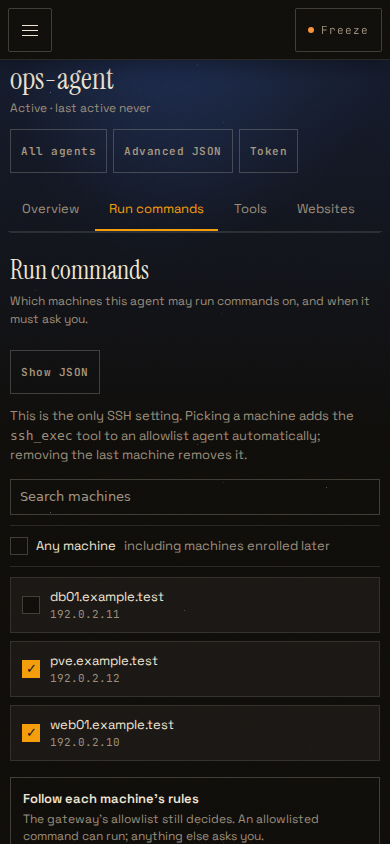
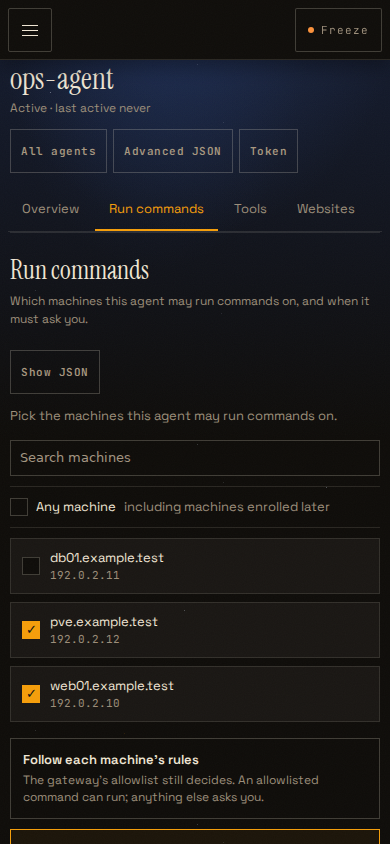
fix(x11): load E2E commands by path; plain Run commands copy; no template badge

Changed region(s): [[0.0, 0.4621, 0.9846, 1.0]]

diff --git a/dashboard/static/x11.js b/dashboard/static/x11.js
@@ -616,26 +616,6 @@
     renderAgents();
   }
 
-  function agentTemplateKey(entry) {
-    var id = String(entry.agent.id);
-    try {
-      var map = JSON.parse(window.localStorage.getItem('eshu.x11.agentTemplates') || '{}');
-      if (map[id]) return map[id];
-    } catch (e) { /* private mode */ }
-    var p = entry.agent.policy || {};
-    if (p.test_agent) return 'test';
-    var hosts = ((entry.config || {}).ssh || {}).hosts || [];
-    var tools = ((entry.config || {}).tools || {}).allow || [];
-    var perms = ((entry.config || {}).home_assistant || {}).permissions || [];
-    if (hosts.length) return 'ops';
-    if (tools.length || perms.length) return 'household';
-    return 'empty';
-  }
-  function agentType(entry) {
-    var key = agentTemplateKey(entry);
-    return ({ household: 'Household', ops: 'Ops', test: 'Test agent',
-      observer: 'Observer' })[key] || 'Custom';
-  }
   function pendingForAgent(name) {
     var n = 0;
     (S.pendingRequests || []).forEach(function (r) {
@@ -739,7 +719,7 @@
     return '<a class="x11-agent-card" href="#agent/' + Number(a.id) + '/overview" data-agent-card ' +
       'data-agent-id="' + Number(a.id) + '" aria-label="Open ' + attr(a.name) + '">' +
       '<div class="x11-agent-card-head"><span class="x11-agent-name">' + esc(a.name) + '</span>' +
-      '<span class="x11-agent-status"><span class="badge">' + esc(agentType(entry)) + '</span> ' +
+      '<span class="x11-agent-status">' +
       '<span class="badge' + (a.revoked ? ' badge-denied' : '') + '">' + esc(status) + '</span></span></div>' +
       '<p class="x11-agent-last">' + (last
         ? 'Last: ' + esc(last.text) + ' \u00b7 ' + esc(ago(last.ts))
@@ -3191,8 +3171,7 @@
         m[0] + '\')"><span class="x11-mode-name">' + esc(m[1]) +
         '</span><span class="x11-mode-note">' + esc(m[2]) + '</span></button>';
     }).join('');
-    return '<p class="x11-int-sentence">This is the only SSH setting. Picking a machine adds the ' +
-      '<code>ssh_exec</code> tool to an allowlist agent automatically; removing the last machine removes it.</p>' +
+    return '<p class="x11-int-sentence">Pick the machines this agent may run commands on.</p>' +
       '<div class="x11-machine-tools"><input id="x11-machine-search" type="search" placeholder="Search machines" ' +
       'aria-label="Search machines" value="' + attr(S.machineSearch) + '" oninput="x11MachineSearch(this.value)"></div>' +
       '<label class="x11-any-machine"><input type="checkbox" data-ssh-any' +
@@ -3853,14 +3832,6 @@
       home_assistant: { permissions: [] },
     };
   }
-  function saveTemplateMark(id, key) {
-    try {
-      var raw = window.localStorage.getItem('eshu.x11.agentTemplates') || '{}';
-      var map = JSON.parse(raw);
-      map[String(id)] = key;
-      window.localStorage.setItem('eshu.x11.agentTemplates', JSON.stringify(map));
-    } catch (e) { /* a private window may refuse localStorage */ }
-  }
   function applyConfigDocument(id, document) {
     return api('/api/agents/' + Number(id) + '/config').then(function (cfg) {
       return api('/api/agents/' + Number(id) + '/config', {
@@ -3894,7 +3865,6 @@
       })
       .then(function () {
         st.applied = true;
-        saveTemplateMark(st.id, st.template);
         st.busy = false;
         st.step = 5;
         renderNewAgent();

diff --git a/dashboard/main.py b/dashboard/main.py
@@ -4528,13 +4528,22 @@ def e2e_commands_endpoint(request: Request):
     """Read-only: the E2E suite's exact command list, so the T8 token form
     cannot drift from `scripts/e2e/run.py COMMANDS`."""
     _check_session(request)
+    import importlib.util
     import sys
     from pathlib import Path
-    root = str(Path(__file__).resolve().parents[1])
-    if root not in sys.path:
-        sys.path.insert(0, root)
-    from scripts.e2e import run as e2e_run
-    return {'commands': list(e2e_run.COMMANDS)}
+    path = Path(__file__).resolve().parents[1] / 'scripts' / 'e2e' / 'run.py'
+    spec = importlib.util.spec_from_file_location('eshu_e2e_commands', path)
+    if spec is None or spec.loader is None:
+        raise HTTPException(status_code=500,
+                            detail='Could not load the E2E command list')
+    module = importlib.util.module_from_spec(spec)
+    # dataclasses resolves annotations through sys.modules during exec.
+    sys.modules[spec.name] = module
+    try:
+        spec.loader.exec_module(module)
+    finally:
+        sys.modules.pop(spec.name, None)
+    return {'commands': list(module.COMMANDS)}
 
 
 @app.get("/api/agents/{agent_id}/activity")

diff --git a/tests/test_x11_stage5.py b/tests/test_x11_stage5.py
@@ -49,6 +49,13 @@ def test_the_e2e_command_endpoint_is_the_suite_constant(auth_client):
     assert 'printf e2e-window' in r.json()['commands']
 
 
+def test_the_e2e_command_endpoint_does_not_change_sys_path(auth_client):
+    before = list(sys.path)
+    r = auth_client.get('/api/e2e/commands')
+    assert r.status_code == 200, r.text
+    assert sys.path == before
+
+
 def test_t8_setup_passes_the_e2e_preflight(auth_client, monkeypatch):
     register_gateway(GATEWAY, 'web01.example.test', 'v-test')
     _ha()

diff --git a/docs/features/FEATURE_PLAN.md b/docs/features/FEATURE_PLAN.md
@@ -23877,3 +23877,22 @@ rows that don't pin the device.**
 Nit: `/api/e2e/commands` puts the repo root first on the server's
 `sys.path`. Load `run.py` by file path with `importlib.util`, or move
 `COMMANDS` into a small module that both import.
+
+### CB17 fixed (`feat/x11-stage5`)
+
+* The `protected_exempt` / `allow_protected` flag is gone. Preparation
+  validates shape but defers the protection check.
+* `_diff_permissions` matches exact signatures in a first pass over every
+  prepared item, then pairs the rest by group in list order. An earlier
+  non-exact item can no longer consume another item's suspended row.
+* Protection is checked after the diff for every `changed` and `added` row,
+  in validation and again inside the apply transaction. `keep` rows are not
+  written, so an exactly unchanged suspended row needs no exemption.
+* Protect-time still suspends device rows that hold the device. It does not
+  suspend label rows; a new or changed label row that would pin a protected
+  device is refused, and the match path still refuses the device.
+* `/api/e2e/commands` loads `scripts/e2e/run.py` by file path with
+  `importlib.util`; it no longer adds the repo root to `sys.path`.
+* UI: the Run commands sentence is **Pick the machines this agent may run
+  commands on.** The agent card no longer shows the browser-local template
+  badge; it keeps status and what the agent can do.

diff --git a/docs/features/X11_TASKS.md b/docs/features/X11_TASKS.md
@@ -38,7 +38,8 @@ apply. `Test agent` is only a head start; T8 finishes it.
 One section owns SSH: the machine list, the search, **Any machine**, and the
 three modes. There is no second tool switch. Picking a machine adds
 `ssh_exec` to an allowlist agent in the same save; removing the last machine
-removes it. The three modes are **Follow each machine's rules** (normal),
+removes it. The page says **Pick the machines this agent may run commands
+on.** The three modes are **Follow each machine's rules** (normal),
 **Always ask me** (approval) and **Read-only**.
 
 ## T3 — Use an integration
